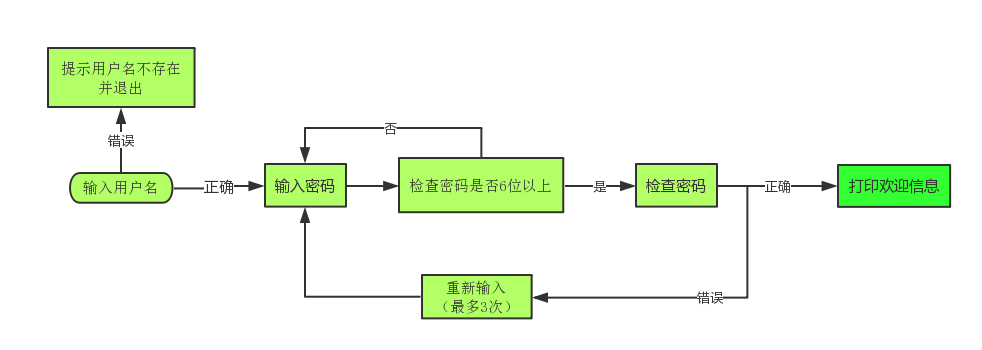
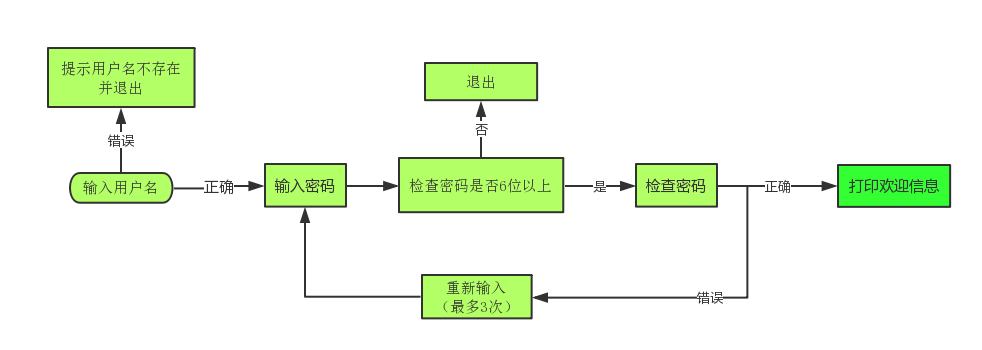
优化脚本与导图

Changed region(s): [[0.3055, 0.1714, 0.5499, 0.4], [0.3055, 0.4, 0.336, 0.4571]]

diff --git a/one/zhanglinglong/1.py b/one/zhanglinglong/1.py
@@ -6,18 +6,19 @@ if name == "zll":
     count = 0    
     while count <= 3:
         passwd = raw_input("请输入密码：")
+        #如果密码正确，打印欢迎信息
         if passwd == "ilikeit":
+            print "欢迎%s登录" %name
+        #密码少于6位，直接退出
+        if len(passwd) <6:
+            print "密码位数必须超过6位"
             break
+        #密码最多可以输入3次
+        if count < 3:
+            print "密码错误，你还有%s次机会" %(3 - count)
+            count +=1
         else:
-	    if len(passwd) <6:
-                print "密码位数必须超过6位"
-            else: 
-                if count < 3:
-                    print "密码错误，你还有%s次机会" %(3 - count)
-                    count +=1
-                else:
-                    print "输入次数过多"
-                    exit()
-    print "欢迎%s登录" %name
+            print "输入次数过多"
+            break
 else:
     print "账号%s不存在" %name
